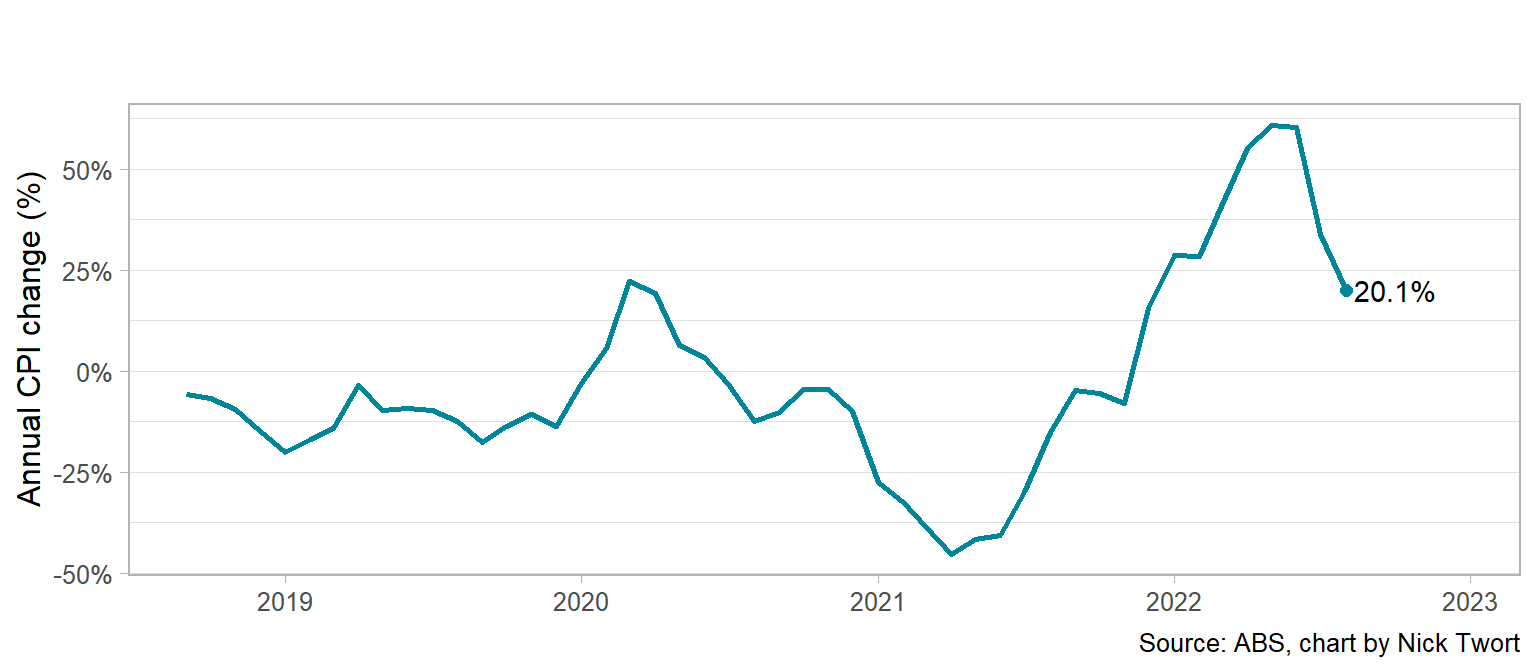
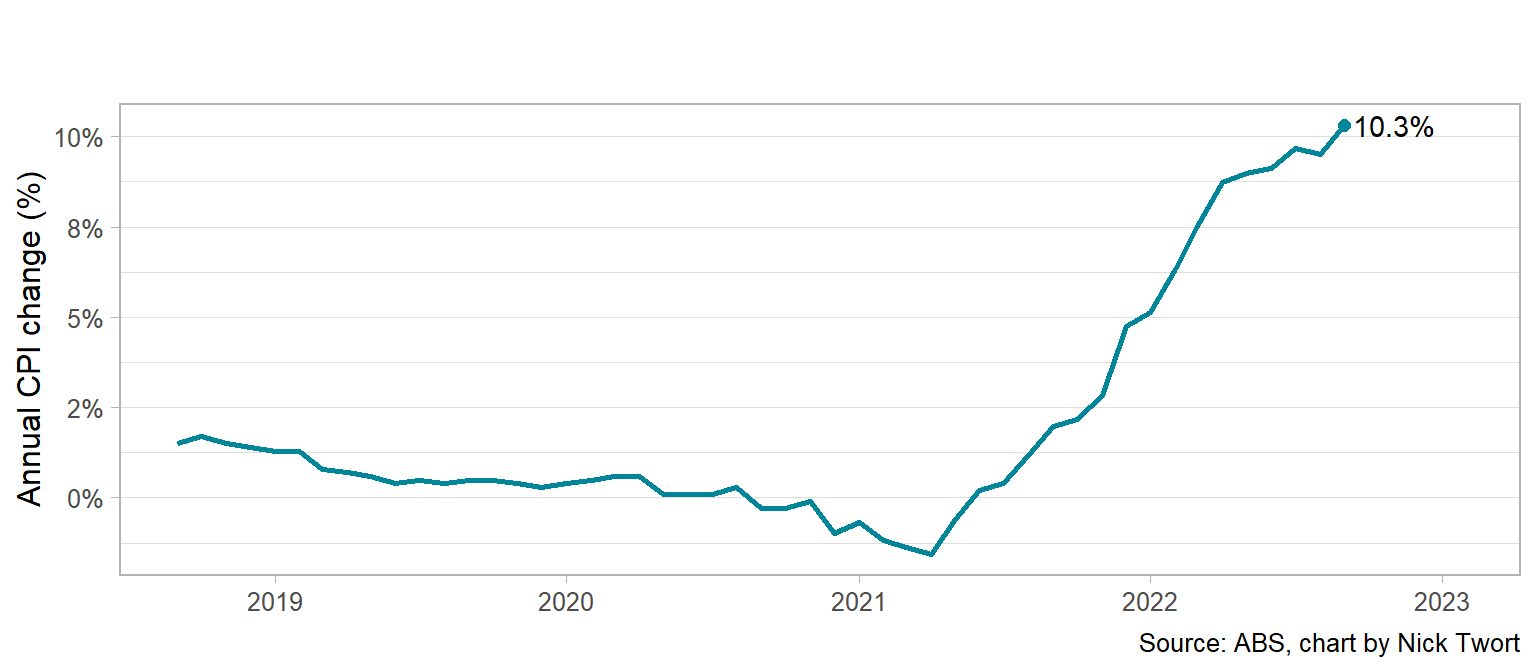
Real data

diff --git a/docs/index.html b/docs/index.html
@@ -83,8 +83,8 @@ ul.task-list{list-style: none;}
 <div class="cell">
 <div class="cell-output-display">
 
-<div id="htmlwidget-018fe7b79529624ee13d" style="width:100%;height:464px;" class="collapsibleTree html-widget"></div>
-<script type="application/json" data-for="htmlwidget-018fe7b79529624ee13d">{"x":{"data":{"name":"All groups","children":[{"name":"Food and non-alcoholic beverages","children":[{"name":"Bread and cereal products","children":[{"name":"Bread"},{"name":"Cakes and biscuits"},{"name":"Breakfast cereals"},{"name":"Other cereal products"}]},{"name":"Meat and seafoods","children":[{"name":"Beef and veal"},{"name":"Pork"},{"name":"Lamb and goat"},{"name":"Poultry"},{"name":"Other meats"},{"name":"Fish and other seafood"}]},{"name":"Dairy and related products","children":[{"name":"Milk"},{"name":"Cheese"},{"name":"Ice cream and other dairy products"}]},{"name":"Fruit and vegetables","children":[{"name":"Fruit"},{"name":"Vegetables"}]},{"name":"Food products n.e.c.","children":[{"name":"Eggs"},{"name":"Jams, honey and spreads"},{"name":"Food additives and condiments"},{"name":"Oils and fats"},{"name":"Snacks and confectionery"},{"name":"Other food products n.e.c."}]},{"name":"Non-alcoholic beverages","children":[{"name":"Coffee, tea and cocoa"},{"name":"Waters, soft drinks and juices"}]},{"name":"Meals out and take away foods","children":[{"name":"Restaurant meals"},{"name":"Take away and fast foods"}]}]},{"name":"Alcohol and tobacco","children":[{"name":"Alcoholic beverages","children":[{"name":"Spirits"},{"name":"Wine"},{"name":"Beer"}]},{"name":"Tobacco","children":[{"name":"Tobacco"}]}]},{"name":"Clothing and footwear","children":[{"name":"Garments","children":[{"name":"Garments for men"},{"name":"Garments for women"},{"name":"Garments for infants and children"}]},{"name":"Footwear","children":[{"name":"Footwear for men"},{"name":"Footwear for women"},{"name":"Footwear for infants and children"}]},{"name":"Accessories and clothing services","children":[{"name":"Accessories"},{"name":"Cleaning, repair and hire of clothing and footwear"}]}]},{"name":"Housing","children":[{"name":"Rents","children":[{"name":"Rents"}]},{"name":"New dwelling purchase by owner-occupiers","children":[{"name":"New dwelling purchase by owner-occupiers"}]},{"name":"Other housing","children":[{"name":"Maintenance and repair of the dwelling"},{"name":"Property rates and charges"}]},{"name":"Utilities","children":[{"name":"Water and sewerage"},{"name":"Electricity"},{"name":"Gas and other household fuels"}]}]},{"name":"Furnishings, household equipment and services","children":[{"name":"Furniture and furnishings","children":[{"name":"Furniture"},{"name":"Carpets and other floor coverings"}]},{"name":"Household textiles","children":[{"name":"Household textiles"}]},{"name":"Household appliances, utensils and tools","children":[{"name":"Major household appliances"},{"name":"Small electric household appliances"},{"name":"Glassware, tableware and household utensils"},{"name":"Tools and equipment for house and garden"}]},{"name":"Non-durable household products","children":[{"name":"Cleaning and maintenance products"},{"name":"Personal care products"},{"name":"Other non-durable household products"}]},{"name":"Domestic and household services","children":[{"name":"Child care"},{"name":"Hairdressing and personal grooming services"},{"name":"Other household services"}]}]},{"name":"Health","children":[{"name":"Medical products, appliances and equipment","children":[{"name":"Pharmaceutical products"},{"name":"Therapeutic appliances and equipment"}]},{"name":"Medical, dental and hospital services","children":[{"name":"Medical and hospital services"},{"name":"Dental services"}]}]},{"name":"Transport","children":[{"name":"Private motoring","children":[{"name":"Motor vehicles"},{"name":"Spare parts and accessories for motor vehicles"},{"name":"Automotive fuel"},{"name":"Maintenance and repair of motor vehicles"},{"name":"Other services in respect of motor vehicles"}]},{"name":"Urban transport fares","children":[{"name":"Urban transport fares"}]}]},{"name":"Communication","children":[{"name":"Communication","children":[{"name":"Postal services"},{"name":"Telecommunication equipment and services"}]}]},{"name":"Recreation and culture","children":[{"name":"Audio, visual and computing equipment and services","children":[{"name":"Audio, visual and computing equipment"},{"name":"Audio, visual and computing media and services"}]},{"name":"Newspapers, books and stationery","children":[{"name":"Books"},{"name":"Newspapers, magazines and stationery"}]},{"name":"Holiday travel and accommodation","children":[{"name":"Domestic holiday travel and accommodation"},{"name":"International holiday travel and accommodation"}]},{"name":"Other recreation, sport and culture","children":[{"name":"Equipment for sports, camping and open-air recreation"},{"name":"Games, toys and hobbies"},{"name":"Pets and related products"},{"name":"Veterinary and other services for pets"},{"name":"Sports participation"},{"name":"Other recreational, sporting and cultural services"}]}]},{"name":"Education","children":[{"name":"Education","children":[{"name":"Preschool and primary education"},{"name":"Secondary education"},{"name":"Tertiary education"}]}]},{"name":"Insurance and financial services","children":[{"name":"Insurance","children":[{"name":"Insurance"}]},{"name":"Financial services","children":[{"name":"Deposit and loan facilities (direct charges)"},{"name":"Other financial services"}]}]}]},"options":{"hierarchy":["group","sub_group","expenditure_classes"],"input":null,"attribute":"leafCount","linkLength":200,"fontSize":12,"tooltip":false,"collapsed":true,"zoomable":true,"margin":{"top":20,"bottom":20,"left":85,"right":343},"fill":"lightsteelblue"}},"evals":[],"jsHooks":[]}</script>
+<div id="htmlwidget-e1062be0013a77a5deb0" style="width:100%;height:464px;" class="collapsibleTree html-widget"></div>
+<script type="application/json" data-for="htmlwidget-e1062be0013a77a5deb0">{"x":{"data":{"name":"All groups","children":[{"name":"Food and non-alcoholic beverages","children":[{"name":"Bread and cereal products","children":[{"name":"Bread"},{"name":"Cakes and biscuits"},{"name":"Breakfast cereals"},{"name":"Other cereal products"}]},{"name":"Meat and seafoods","children":[{"name":"Beef and veal"},{"name":"Pork"},{"name":"Lamb and goat"},{"name":"Poultry"},{"name":"Other meats"},{"name":"Fish and other seafood"}]},{"name":"Dairy and related products","children":[{"name":"Milk"},{"name":"Cheese"},{"name":"Ice cream and other dairy products"}]},{"name":"Fruit and vegetables","children":[{"name":"Fruit"},{"name":"Vegetables"}]},{"name":"Food products n.e.c.","children":[{"name":"Eggs"},{"name":"Jams, honey and spreads"},{"name":"Food additives and condiments"},{"name":"Oils and fats"},{"name":"Snacks and confectionery"},{"name":"Other food products n.e.c."}]},{"name":"Non-alcoholic beverages","children":[{"name":"Coffee, tea and cocoa"},{"name":"Waters, soft drinks and juices"}]},{"name":"Meals out and take away foods","children":[{"name":"Restaurant meals"},{"name":"Take away and fast foods"}]}]},{"name":"Alcohol and tobacco","children":[{"name":"Alcoholic beverages","children":[{"name":"Spirits"},{"name":"Wine"},{"name":"Beer"}]},{"name":"Tobacco","children":[{"name":"Tobacco"}]}]},{"name":"Clothing and footwear","children":[{"name":"Garments","children":[{"name":"Garments for men"},{"name":"Garments for women"},{"name":"Garments for infants and children"}]},{"name":"Footwear","children":[{"name":"Footwear for men"},{"name":"Footwear for women"},{"name":"Footwear for infants and children"}]},{"name":"Accessories and clothing services","children":[{"name":"Accessories"},{"name":"Cleaning, repair and hire of clothing and footwear"}]}]},{"name":"Housing","children":[{"name":"Rents","children":[{"name":"Rents"}]},{"name":"New dwelling purchase by owner-occupiers","children":[{"name":"New dwelling purchase by owner-occupiers"}]},{"name":"Other housing","children":[{"name":"Maintenance and repair of the dwelling"},{"name":"Property rates and charges"}]},{"name":"Utilities","children":[{"name":"Water and sewerage"},{"name":"Electricity"},{"name":"Gas and other household fuels"}]}]},{"name":"Furnishings, household equipment and services","children":[{"name":"Furniture and furnishings","children":[{"name":"Furniture"},{"name":"Carpets and other floor coverings"}]},{"name":"Household textiles","children":[{"name":"Household textiles"}]},{"name":"Household appliances, utensils and tools","children":[{"name":"Major household appliances"},{"name":"Small electric household appliances"},{"name":"Glassware, tableware and household utensils"},{"name":"Tools and equipment for house and garden"}]},{"name":"Non-durable household products","children":[{"name":"Cleaning and maintenance products"},{"name":"Personal care products"},{"name":"Other non-durable household products"}]},{"name":"Domestic and household services","children":[{"name":"Child care"},{"name":"Hairdressing and personal grooming services"},{"name":"Other household services"}]}]},{"name":"Health","children":[{"name":"Medical products, appliances and equipment","children":[{"name":"Pharmaceutical products"},{"name":"Therapeutic appliances and equipment"}]},{"name":"Medical, dental and hospital services","children":[{"name":"Medical and hospital services"},{"name":"Dental services"}]}]},{"name":"Transport","children":[{"name":"Private motoring","children":[{"name":"Motor vehicles"},{"name":"Spare parts and accessories for motor vehicles"},{"name":"Automotive fuel"},{"name":"Maintenance and repair of motor vehicles"},{"name":"Other services in respect of motor vehicles"}]},{"name":"Urban transport fares","children":[{"name":"Urban transport fares"}]}]},{"name":"Communication","children":[{"name":"Communication","children":[{"name":"Postal services"},{"name":"Telecommunication equipment and services"}]}]},{"name":"Recreation and culture","children":[{"name":"Audio, visual and computing equipment and services","children":[{"name":"Audio, visual and computing equipment"},{"name":"Audio, visual and computing media and services"}]},{"name":"Newspapers, books and stationery","children":[{"name":"Books"},{"name":"Newspapers, magazines and stationery"}]},{"name":"Holiday travel and accommodation","children":[{"name":"Domestic holiday travel and accommodation"},{"name":"International holiday travel and accommodation"}]},{"name":"Other recreation, sport and culture","children":[{"name":"Equipment for sports, camping and open-air recreation"},{"name":"Games, toys and hobbies"},{"name":"Pets and related products"},{"name":"Veterinary and other services for pets"},{"name":"Sports participation"},{"name":"Other recreational, sporting and cultural services"}]}]},{"name":"Education","children":[{"name":"Education","children":[{"name":"Preschool and primary education"},{"name":"Secondary education"},{"name":"Tertiary education"}]}]},{"name":"Insurance and financial services","children":[{"name":"Insurance","children":[{"name":"Insurance"}]},{"name":"Financial services","children":[{"name":"Deposit and loan facilities (direct charges)"},{"name":"Other financial services"}]}]}]},"options":{"hierarchy":["group","sub_group","expenditure_classes"],"input":null,"attribute":"leafCount","linkLength":200,"fontSize":12,"tooltip":false,"collapsed":true,"zoomable":true,"margin":{"top":20,"bottom":20,"left":85,"right":343},"fill":"lightsteelblue"}},"evals":[],"jsHooks":[]}</script>
 </div>
 </div>
 <p>In order to progress from individual price measurements of one good or service to aggregate price movements, the measurements need to be ‘weighted’ to ensure the overall basket reasonably represents a household’s expenditure. In Australia, weights are derived from the Household Expenditure Survey (HES), which is a sample of around 8,000 households who record their expenditure over a two-week period.<a href="#fn4" class="footnote-ref" id="fnref4" role="doc-noteref"><sup>4</sup></a></p>
@@ -107,10 +107,10 @@ ul.task-list{list-style: none;}
 <div class="cell">
 
 </div>
-<p><a href="#fig-all-groups">Figure&nbsp;1</a> below shows that the <span style="color: #008698; font-weight: bold">monthly CPI indicator</span> tracks closely with the <span style="color: #232C31; font-weight: bold">existing quarterly indicator</span>. Inflation for the year to August 2022 was:</p>
+<p><a href="#fig-all-groups">Figure&nbsp;1</a> below shows that the <span style="color: #008698; font-weight: bold">monthly CPI indicator</span> tracks closely with the <span style="color: #232C31; font-weight: bold">existing quarterly indicator</span>. Inflation for the year to September 2022 was:</p>
 <ul>
-<li>17.9%, according to the monthly indicator; and</li>
-<li>6.1%, according to the quarterly indicator.</li>
+<li>7.3%, according to the monthly indicator; and</li>
+<li>7.3%, according to the quarterly indicator.</li>
 </ul>
 <div class="cell page-columns page-full">
 <div class="cell-output-display page-columns page-full">
@@ -122,24 +122,24 @@ ul.task-list{list-style: none;}
 </div>
 </div>
 </div>
-<p>The monthly index shows that the Transport group increased most over the last year – by 20.1%, shown in <a href="#fig-1">Figure&nbsp;2</a>.</p>
+<p>The monthly index shows that the Housing group increased most over the last year – by 10.3%, shown in <a href="#fig-1">Figure&nbsp;2</a>.</p>
 <div class="cell page-columns page-full">
 <div class="cell-output-display page-columns page-full">
 <div id="fig-1" class="quarto-figure quarto-figure-center anchored page-columns page-full">
 <figure class="figure page-columns page-full">
 <p><img src="monthly-cpi_files/figure-html/fig-1-1.png" class="img-fluid figure-img" width="768"></p>
-<p></p><figcaption aria-hidden="true" class="figure-caption margin-caption">Figure 2: Transport prices</figcaption><p></p>
+<p></p><figcaption aria-hidden="true" class="figure-caption margin-caption">Figure 2: Housing prices</figcaption><p></p>
 </figure>
 </div>
 </div>
 </div>
-<p>The Housing group increased the next most – by 16.3% – see <a href="#fig-2">Figure&nbsp;3</a>.</p>
+<p>The Food and non-alcoholic beverages group increased the next most – by 9.6% – see <a href="#fig-2">Figure&nbsp;3</a>.</p>
 <div class="cell page-columns page-full">
 <div class="cell-output-display page-columns page-full">
 <div id="fig-2" class="quarto-figure quarto-figure-center anchored page-columns page-full">
 <figure class="figure page-columns page-full">
 <p><img src="monthly-cpi_files/figure-html/fig-2-1.png" class="img-fluid figure-img" width="768"></p>
-<p></p><figcaption aria-hidden="true" class="figure-caption margin-caption">Figure 3: Housing prices</figcaption><p></p>
+<p></p><figcaption aria-hidden="true" class="figure-caption margin-caption">Figure 3: Food and non-alcoholic beverages prices</figcaption><p></p>
 </figure>
 </div>
 </div>

diff --git a/docs/monthly-cpi.html b/docs/monthly-cpi.html
@@ -83,8 +83,8 @@ ul.task-list{list-style: none;}
 <div class="cell">
 <div class="cell-output-display">
 
-<div id="htmlwidget-a27848be5570cdc303c6" style="width:100%;height:464px;" class="collapsibleTree html-widget"></div>
-<script type="application/json" data-for="htmlwidget-a27848be5570cdc303c6">{"x":{"data":{"name":"All groups","children":[{"name":"Food and non-alcoholic beverages","children":[{"name":"Bread and cereal products","children":[{"name":"Bread"},{"name":"Cakes and biscuits"},{"name":"Breakfast cereals"},{"name":"Other cereal products"}]},{"name":"Meat and seafoods","children":[{"name":"Beef and veal"},{"name":"Pork"},{"name":"Lamb and goat"},{"name":"Poultry"},{"name":"Other meats"},{"name":"Fish and other seafood"}]},{"name":"Dairy and related products","children":[{"name":"Milk"},{"name":"Cheese"},{"name":"Ice cream and other dairy products"}]},{"name":"Fruit and vegetables","children":[{"name":"Fruit"},{"name":"Vegetables"}]},{"name":"Food products n.e.c.","children":[{"name":"Eggs"},{"name":"Jams, honey and spreads"},{"name":"Food additives and condiments"},{"name":"Oils and fats"},{"name":"Snacks and confectionery"},{"name":"Other food products n.e.c."}]},{"name":"Non-alcoholic beverages","children":[{"name":"Coffee, tea and cocoa"},{"name":"Waters, soft drinks and juices"}]},{"name":"Meals out and take away foods","children":[{"name":"Restaurant meals"},{"name":"Take away and fast foods"}]}]},{"name":"Alcohol and tobacco","children":[{"name":"Alcoholic beverages","children":[{"name":"Spirits"},{"name":"Wine"},{"name":"Beer"}]},{"name":"Tobacco","children":[{"name":"Tobacco"}]}]},{"name":"Clothing and footwear","children":[{"name":"Garments","children":[{"name":"Garments for men"},{"name":"Garments for women"},{"name":"Garments for infants and children"}]},{"name":"Footwear","children":[{"name":"Footwear for men"},{"name":"Footwear for women"},{"name":"Footwear for infants and children"}]},{"name":"Accessories and clothing services","children":[{"name":"Accessories"},{"name":"Cleaning, repair and hire of clothing and footwear"}]}]},{"name":"Housing","children":[{"name":"Rents","children":[{"name":"Rents"}]},{"name":"New dwelling purchase by owner-occupiers","children":[{"name":"New dwelling purchase by owner-occupiers"}]},{"name":"Other housing","children":[{"name":"Maintenance and repair of the dwelling"},{"name":"Property rates and charges"}]},{"name":"Utilities","children":[{"name":"Water and sewerage"},{"name":"Electricity"},{"name":"Gas and other household fuels"}]}]},{"name":"Furnishings, household equipment and services","children":[{"name":"Furniture and furnishings","children":[{"name":"Furniture"},{"name":"Carpets and other floor coverings"}]},{"name":"Household textiles","children":[{"name":"Household textiles"}]},{"name":"Household appliances, utensils and tools","children":[{"name":"Major household appliances"},{"name":"Small electric household appliances"},{"name":"Glassware, tableware and household utensils"},{"name":"Tools and equipment for house and garden"}]},{"name":"Non-durable household products","children":[{"name":"Cleaning and maintenance products"},{"name":"Personal care products"},{"name":"Other non-durable household products"}]},{"name":"Domestic and household services","children":[{"name":"Child care"},{"name":"Hairdressing and personal grooming services"},{"name":"Other household services"}]}]},{"name":"Health","children":[{"name":"Medical products, appliances and equipment","children":[{"name":"Pharmaceutical products"},{"name":"Therapeutic appliances and equipment"}]},{"name":"Medical, dental and hospital services","children":[{"name":"Medical and hospital services"},{"name":"Dental services"}]}]},{"name":"Transport","children":[{"name":"Private motoring","children":[{"name":"Motor vehicles"},{"name":"Spare parts and accessories for motor vehicles"},{"name":"Automotive fuel"},{"name":"Maintenance and repair of motor vehicles"},{"name":"Other services in respect of motor vehicles"}]},{"name":"Urban transport fares","children":[{"name":"Urban transport fares"}]}]},{"name":"Communication","children":[{"name":"Communication","children":[{"name":"Postal services"},{"name":"Telecommunication equipment and services"}]}]},{"name":"Recreation and culture","children":[{"name":"Audio, visual and computing equipment and services","children":[{"name":"Audio, visual and computing equipment"},{"name":"Audio, visual and computing media and services"}]},{"name":"Newspapers, books and stationery","children":[{"name":"Books"},{"name":"Newspapers, magazines and stationery"}]},{"name":"Holiday travel and accommodation","children":[{"name":"Domestic holiday travel and accommodation"},{"name":"International holiday travel and accommodation"}]},{"name":"Other recreation, sport and culture","children":[{"name":"Equipment for sports, camping and open-air recreation"},{"name":"Games, toys and hobbies"},{"name":"Pets and related products"},{"name":"Veterinary and other services for pets"},{"name":"Sports participation"},{"name":"Other recreational, sporting and cultural services"}]}]},{"name":"Education","children":[{"name":"Education","children":[{"name":"Preschool and primary education"},{"name":"Secondary education"},{"name":"Tertiary education"}]}]},{"name":"Insurance and financial services","children":[{"name":"Insurance","children":[{"name":"Insurance"}]},{"name":"Financial services","children":[{"name":"Deposit and loan facilities (direct charges)"},{"name":"Other financial services"}]}]}]},"options":{"hierarchy":["group","sub_group","expenditure_classes"],"input":null,"attribute":"leafCount","linkLength":200,"fontSize":12,"tooltip":false,"collapsed":true,"zoomable":true,"margin":{"top":20,"bottom":20,"left":85,"right":343},"fill":"lightsteelblue"}},"evals":[],"jsHooks":[]}</script>
+<div id="htmlwidget-550ae602b706aa80e41e" style="width:100%;height:464px;" class="collapsibleTree html-widget"></div>
+<script type="application/json" data-for="htmlwidget-550ae602b706aa80e41e">{"x":{"data":{"name":"All groups","children":[{"name":"Food and non-alcoholic beverages","children":[{"name":"Bread and cereal products","children":[{"name":"Bread"},{"name":"Cakes and biscuits"},{"name":"Breakfast cereals"},{"name":"Other cereal products"}]},{"name":"Meat and seafoods","children":[{"name":"Beef and veal"},{"name":"Pork"},{"name":"Lamb and goat"},{"name":"Poultry"},{"name":"Other meats"},{"name":"Fish and other seafood"}]},{"name":"Dairy and related products","children":[{"name":"Milk"},{"name":"Cheese"},{"name":"Ice cream and other dairy products"}]},{"name":"Fruit and vegetables","children":[{"name":"Fruit"},{"name":"Vegetables"}]},{"name":"Food products n.e.c.","children":[{"name":"Eggs"},{"name":"Jams, honey and spreads"},{"name":"Food additives and condiments"},{"name":"Oils and fats"},{"name":"Snacks and confectionery"},{"name":"Other food products n.e.c."}]},{"name":"Non-alcoholic beverages","children":[{"name":"Coffee, tea and cocoa"},{"name":"Waters, soft drinks and juices"}]},{"name":"Meals out and take away foods","children":[{"name":"Restaurant meals"},{"name":"Take away and fast foods"}]}]},{"name":"Alcohol and tobacco","children":[{"name":"Alcoholic beverages","children":[{"name":"Spirits"},{"name":"Wine"},{"name":"Beer"}]},{"name":"Tobacco","children":[{"name":"Tobacco"}]}]},{"name":"Clothing and footwear","children":[{"name":"Garments","children":[{"name":"Garments for men"},{"name":"Garments for women"},{"name":"Garments for infants and children"}]},{"name":"Footwear","children":[{"name":"Footwear for men"},{"name":"Footwear for women"},{"name":"Footwear for infants and children"}]},{"name":"Accessories and clothing services","children":[{"name":"Accessories"},{"name":"Cleaning, repair and hire of clothing and footwear"}]}]},{"name":"Housing","children":[{"name":"Rents","children":[{"name":"Rents"}]},{"name":"New dwelling purchase by owner-occupiers","children":[{"name":"New dwelling purchase by owner-occupiers"}]},{"name":"Other housing","children":[{"name":"Maintenance and repair of the dwelling"},{"name":"Property rates and charges"}]},{"name":"Utilities","children":[{"name":"Water and sewerage"},{"name":"Electricity"},{"name":"Gas and other household fuels"}]}]},{"name":"Furnishings, household equipment and services","children":[{"name":"Furniture and furnishings","children":[{"name":"Furniture"},{"name":"Carpets and other floor coverings"}]},{"name":"Household textiles","children":[{"name":"Household textiles"}]},{"name":"Household appliances, utensils and tools","children":[{"name":"Major household appliances"},{"name":"Small electric household appliances"},{"name":"Glassware, tableware and household utensils"},{"name":"Tools and equipment for house and garden"}]},{"name":"Non-durable household products","children":[{"name":"Cleaning and maintenance products"},{"name":"Personal care products"},{"name":"Other non-durable household products"}]},{"name":"Domestic and household services","children":[{"name":"Child care"},{"name":"Hairdressing and personal grooming services"},{"name":"Other household services"}]}]},{"name":"Health","children":[{"name":"Medical products, appliances and equipment","children":[{"name":"Pharmaceutical products"},{"name":"Therapeutic appliances and equipment"}]},{"name":"Medical, dental and hospital services","children":[{"name":"Medical and hospital services"},{"name":"Dental services"}]}]},{"name":"Transport","children":[{"name":"Private motoring","children":[{"name":"Motor vehicles"},{"name":"Spare parts and accessories for motor vehicles"},{"name":"Automotive fuel"},{"name":"Maintenance and repair of motor vehicles"},{"name":"Other services in respect of motor vehicles"}]},{"name":"Urban transport fares","children":[{"name":"Urban transport fares"}]}]},{"name":"Communication","children":[{"name":"Communication","children":[{"name":"Postal services"},{"name":"Telecommunication equipment and services"}]}]},{"name":"Recreation and culture","children":[{"name":"Audio, visual and computing equipment and services","children":[{"name":"Audio, visual and computing equipment"},{"name":"Audio, visual and computing media and services"}]},{"name":"Newspapers, books and stationery","children":[{"name":"Books"},{"name":"Newspapers, magazines and stationery"}]},{"name":"Holiday travel and accommodation","children":[{"name":"Domestic holiday travel and accommodation"},{"name":"International holiday travel and accommodation"}]},{"name":"Other recreation, sport and culture","children":[{"name":"Equipment for sports, camping and open-air recreation"},{"name":"Games, toys and hobbies"},{"name":"Pets and related products"},{"name":"Veterinary and other services for pets"},{"name":"Sports participation"},{"name":"Other recreational, sporting and cultural services"}]}]},{"name":"Education","children":[{"name":"Education","children":[{"name":"Preschool and primary education"},{"name":"Secondary education"},{"name":"Tertiary education"}]}]},{"name":"Insurance and financial services","children":[{"name":"Insurance","children":[{"name":"Insurance"}]},{"name":"Financial services","children":[{"name":"Deposit and loan facilities (direct charges)"},{"name":"Other financial services"}]}]}]},"options":{"hierarchy":["group","sub_group","expenditure_classes"],"input":null,"attribute":"leafCount","linkLength":200,"fontSize":12,"tooltip":false,"collapsed":true,"zoomable":true,"margin":{"top":20,"bottom":20,"left":85,"right":343},"fill":"lightsteelblue"}},"evals":[],"jsHooks":[]}</script>
 </div>
 </div>
 <p>In order to progress from individual price measurements of one good or service to aggregate price movements, the measurements need to be ‘weighted’ to ensure the overall basket reasonably represents a household’s expenditure. In Australia, weights are derived from the Household Expenditure Survey (HES), which is a sample of around 8,000 households who record their expenditure over a two-week period.<a href="#fn4" class="footnote-ref" id="fnref4" role="doc-noteref"><sup>4</sup></a></p>
@@ -107,10 +107,10 @@ ul.task-list{list-style: none;}
 <div class="cell">
 
 </div>
-<p><a href="#fig-all-groups">Figure&nbsp;1</a> below shows that the <span style="color: #008698; font-weight: bold">monthly CPI indicator</span> tracks closely with the <span style="color: #232C31; font-weight: bold">existing quarterly indicator</span>. Inflation for the year to August 2022 was:</p>
+<p><a href="#fig-all-groups">Figure&nbsp;1</a> below shows that the <span style="color: #008698; font-weight: bold">monthly CPI indicator</span> tracks closely with the <span style="color: #232C31; font-weight: bold">existing quarterly indicator</span>. Inflation for the year to September 2022 was:</p>
 <ul>
-<li>17.9%, according to the monthly indicator; and</li>
-<li>6.1%, according to the quarterly indicator.</li>
+<li>7.3%, according to the monthly indicator; and</li>
+<li>7.3%, according to the quarterly indicator.</li>
 </ul>
 <div class="cell page-columns page-full">
 <div class="cell-output-display page-columns page-full">
@@ -122,24 +122,24 @@ ul.task-list{list-style: none;}
 </div>
 </div>
 </div>
-<p>The monthly index shows that the Transport group increased most over the last year – by 20.1%, shown in <a href="#fig-1">Figure&nbsp;2</a>.</p>
+<p>The monthly index shows that the Housing group increased most over the last year – by 10.3%, shown in <a href="#fig-1">Figure&nbsp;2</a>.</p>
 <div class="cell page-columns page-full">
 <div class="cell-output-display page-columns page-full">
 <div id="fig-1" class="quarto-figure quarto-figure-center anchored page-columns page-full">
 <figure class="figure page-columns page-full">
 <p><img src="monthly-cpi_files/figure-html/fig-1-1.png" class="img-fluid figure-img" width="768"></p>
-<p></p><figcaption aria-hidden="true" class="figure-caption margin-caption">Figure 2: Transport prices</figcaption><p></p>
+<p></p><figcaption aria-hidden="true" class="figure-caption margin-caption">Figure 2: Housing prices</figcaption><p></p>
 </figure>
 </div>
 </div>
 </div>
-<p>The Housing group increased the next most – by 16.3% – see <a href="#fig-2">Figure&nbsp;3</a>.</p>
+<p>The Food and non-alcoholic beverages group increased the next most – by 9.6% – see <a href="#fig-2">Figure&nbsp;3</a>.</p>
 <div class="cell page-columns page-full">
 <div class="cell-output-display page-columns page-full">
 <div id="fig-2" class="quarto-figure quarto-figure-center anchored page-columns page-full">
 <figure class="figure page-columns page-full">
 <p><img src="monthly-cpi_files/figure-html/fig-2-1.png" class="img-fluid figure-img" width="768"></p>
-<p></p><figcaption aria-hidden="true" class="figure-caption margin-caption">Figure 3: Housing prices</figcaption><p></p>
+<p></p><figcaption aria-hidden="true" class="figure-caption margin-caption">Figure 3: Food and non-alcoholic beverages prices</figcaption><p></p>
 </figure>
 </div>
 </div>
